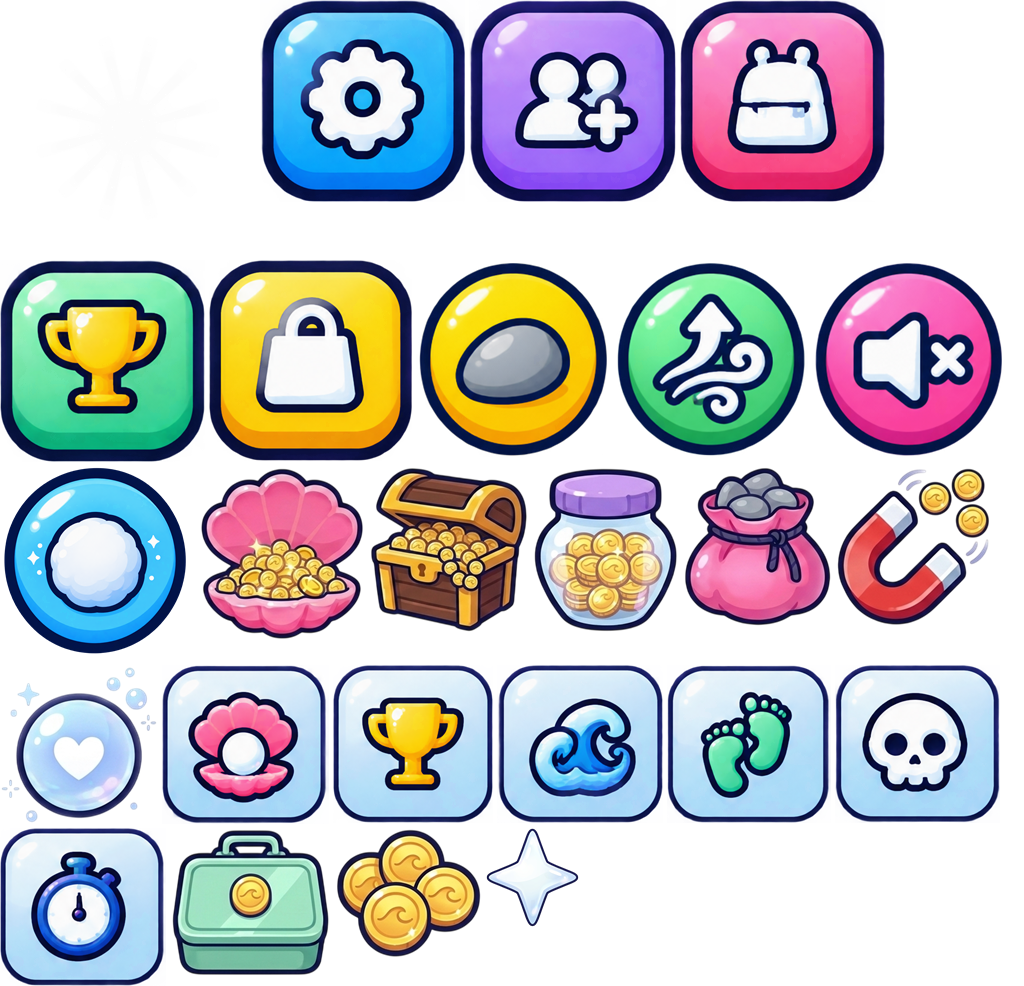
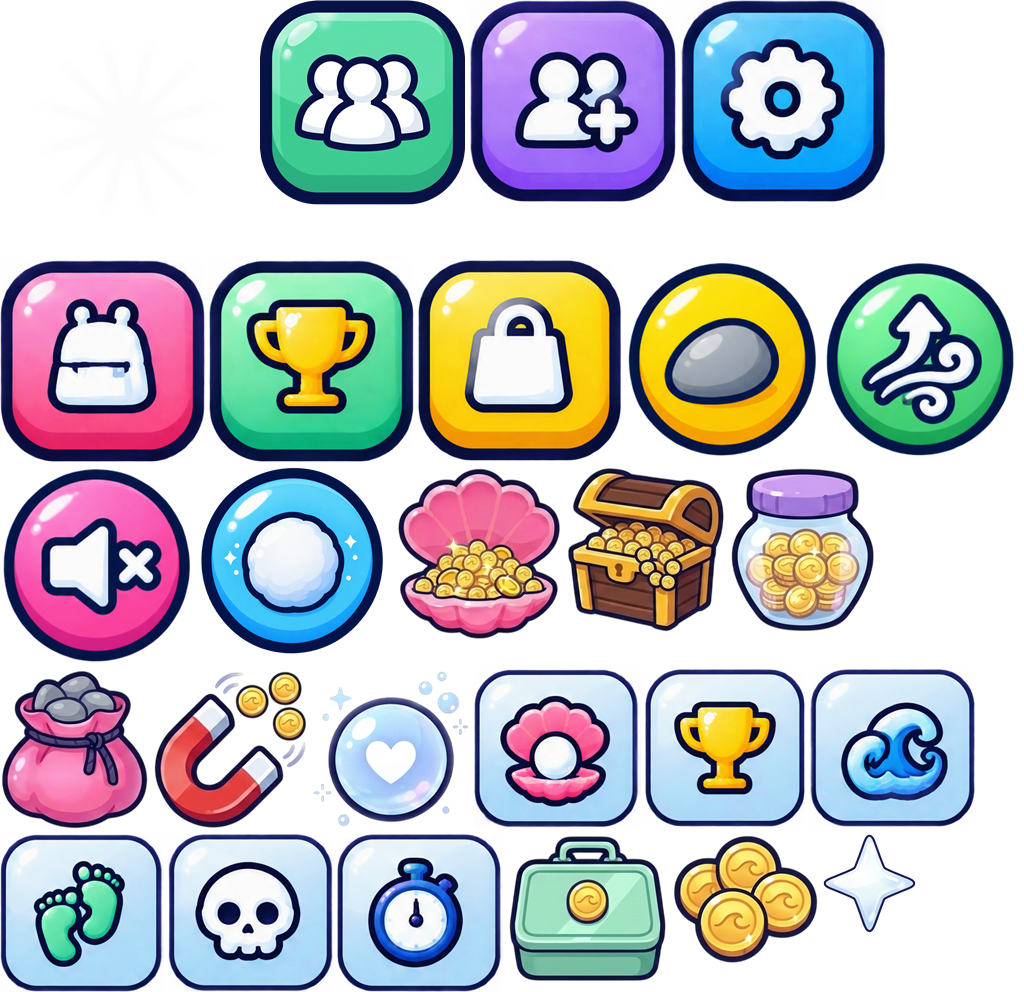
Add a Join button that rewards joining the game's community
A teal Join tile in the HUD's right grid, with a +100 tag, opens Roblox's
prompt to join The Silent Swamp community. The server checks membership
with Roblox (never trusting the client) and pays Config.Community.Reward
coins once per player, saved with their profile; players who joined on
the website get it on their next visit. The tile is SpriteCook art packed
into the icons atlas, which was re-uploaded.

diff --git a/README.md b/README.md
@@ -15,7 +15,7 @@ A Roblox horror obby. Cross a drowned forest at night by jumping from stump to s
 - **The cave:** every party starts in a cave behind the building, with room to walk about and a supply stall (G) for last-minute shopping. It is gloomy but never too dark, lit by torches, lanterns and glowing crystals, with water dripping and wind blowing in through its wide mouth onto the forest. A few seconds after you arrive, something out there steps on a stick, growls two seconds later, and a note says it is your last chance to grab supplies (with a button to the shop). Practice runs skip that.
 - **Run timer:** starts when you walk out of the cave's mouth and stops at the exit. A run counts for the easiest difficulty played during it. Your best time on each difficulty is saved.
 - **Coins:** earned for each stage cleared, each shell found and each escape. Spend them in the **Shop** (the dock's shop button, the + on your coins, or B).
-- **The HUD:** your stage top left, coins bottom left (top left on touch screens, clear of the thumbstick), the run timer top middle, difficulty top right. In the lobby and the cave, big **Shop** and **Bag** buttons (what you own, to wear or take off) sit on the left, and on the right the **Christmas** button (with a LIMITED ribbon and how long is left) and **2x Coins** (the Passes tab), then **Stats** (escapes, fastest escape, stages cleared, times caught, shells found, runs started, time played), **Settings** (music, night sounds, sound effects, camera shake, field of view) and **Invite** (Roblox's invite-friends prompt). Out in the forest they make way for the noise meter on the left and round pebble, Updraft and Hush buttons bottom right, which work on touch screens too.
+- **The HUD:** your stage top left, coins bottom left (top left on touch screens, clear of the thumbstick), the run timer top middle, difficulty top right. In the lobby and the cave, big **Shop** and **Bag** buttons (what you own, to wear or take off) sit on the left, and on the right the **Christmas** button (with a LIMITED ribbon and how long is left), **2x Coins** (the Passes tab) and **Join** (Roblox's prompt to join the game's community, with a one-time coin reward; it goes away once paid), then **Stats** (escapes, fastest escape, stages cleared, times caught, shells found, runs started, time played), **Settings** (music, night sounds, sound effects, camera shake, field of view) and **Invite** (Roblox's invite-friends prompt). Out in the forest they make way for the noise meter on the left and round pebble, Updraft and Hush buttons bottom right, which work on touch screens too.
 - **The Christmas Bundle** (until New Year, UTC): a limited Robux bundle with the exclusive **Frostbite** skin (ice) and **Santa Hat**, 1,000 coins and 3 Self-Revives. Its window has a countdown and its own SpriteCook art. The skin and hat aren't sold for coins: in the shop they point to the bundle, and once it's over they only show to those who have them.
 - **Robux shop:** two more tabs in the shop. **Robux**: coin packs (Handful, Jar, Chest, Sunken Hoard), the Night Kit bundle (coins, Updrafts, Hushes and 2 Self-Revives), Self-Revives (1 or 3, kept until you need them) and 5-packs of Updraft and Hush. **Passes**: **2× Coins** (double coins from stages, shells and escapes) and **Deep Pockets** (5 pebbles a life and up to 15 of each boost). The + on your coins opens the Robux tab. What each one gives is in `src/shared/RobuxCatalog.luau`.
 - **Getting caught:** its face up close, then a dead TV channel with what gave you away. The static stays until you choose: **Revive** (a Self-Revive if you have one, else 50 coins, else a Self-Revive bought with Robux) puts you back on the last dry ground you stood on, silent for a moment, with your run still going; **Bleed out** sends you to your last checkpoint, or the lobby if you have none; **Back to lobby** ends the run. Not choosing bleeds out after 30 seconds (`Config.Revive`).
@@ -109,6 +109,7 @@ Roblox only shows uploaded images, so the parts are packed into atlases, `art/ui
 | Robux: what is sold, its name, picture and what it gives | `src/shared/RobuxCatalog.luau` |
 | Robux ids; what the passes do | `Config.Products`, `Config.Passes`, `Config.PassPerks` (`src/shared/Perks.luau`) |
 | Granting purchases | `src/server/Purchases.luau`, `Progress.grant` in `src/server/Progress.luau` |
+| The community: its id, the coins for joining; checking and paying | `Config.Community`; `src/server/Community.luau`, `Progress.rewardCommunity` in `src/server/Progress.luau` |
 | Which music and sound effects play | `Config.Sounds` |
 | When each piece of music plays, and the fades | `src/client/Music.luau` |
 | Sounds only you hear (wading, chimes); the creature's footsteps and growl | `src/client/Sounds.luau`, `src/client/LurkerVisuals.luau` |
